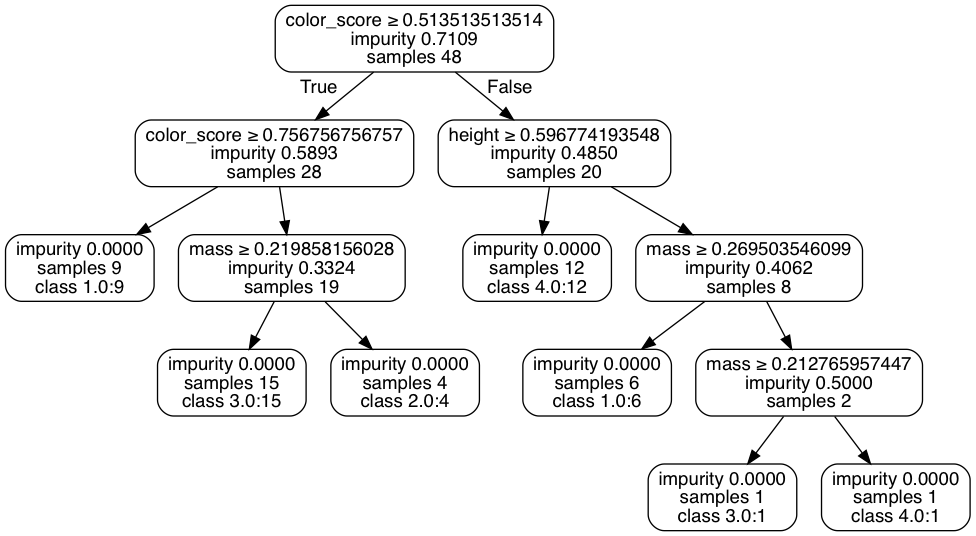
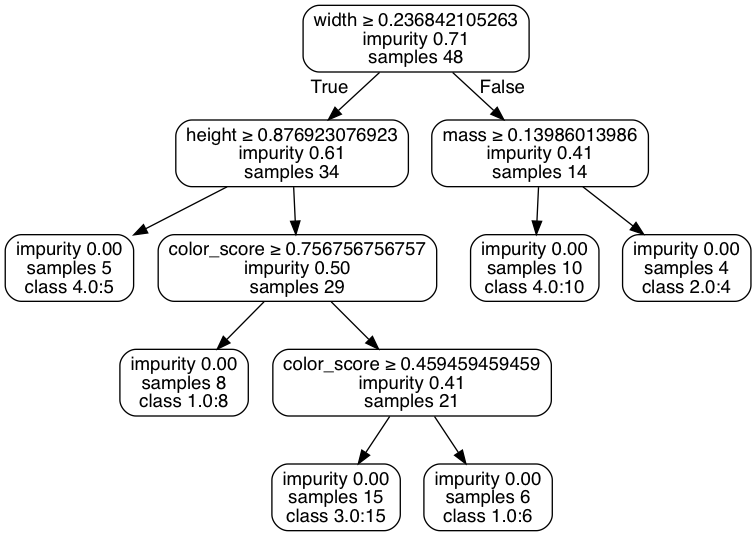
add comments - 6.23

diff --git a/DecisionTree.py b/DecisionTree.py
@@ -7,105 +7,84 @@ from __future__ import division
 import DecisionPlot as DP
 import tools as tl
 import pydotplus
+import cv2
 
 class DecisionTree:
-    def __init__(self, value=None, trueBranch=None, falseBranch=None, results=None, col=-1, summary=None, data=None):
+    def __init__(self, value=None, trueBranch=None, falseBranch=None, results=None, col=-1, summary=None):
         self.value = value               #Record the value in TreeNode
         self.trueBranch = trueBranch     #True  branch in TreeNode
         self.falseBranch = falseBranch   #False branch in TreeNode
-        self.results = results           #LeafNode results  - feature nums 
+        self.results = results           #feature num - Dictionary  
         self.col = col                   #Record the feature columns
-        self.summary = summary           #Every Node's summary info
-        self.data = data                 #LeafNode data
+        self.summary = summary           #Every Node's summary info for graph
 
-def buildDecisionTree(rows, evaluationFunc = None):
-    currentGain = evaluationFunc(rows)
-    rows_length = len(rows)
-    #print rows_length
+
+#建树函数
+def buildDecisionTree(dataSet, evaluationFunc = None):
+    currentGain = evaluationFunc(dataSet)
+    dataSet_length = len(dataSet)
+    #print dataSet_length
     best_gain = 0.0
     best_value = None
     best_set = None
-
     #choose the best gain for the former 4 feature
-    for col in range(len(rows[0]) - 1):
-        col_value_set = set([x[col] for x in rows])
+    for col in range(len(dataSet[0]) - 1):
+        col_value_set = set([x[col] for x in dataSet])
         #print col_value_set
         for value in col_value_set:
-            list1, list2 = tl.splitDataSet(rows, value, col)
-            p = float(len(list1)) / rows_length
+            list1, list2 = tl.splitDataSet(dataSet, value, col)
+            p = float(len(list1)) / dataSet_length
+            #feature gain
             gain = currentGain - p * evaluationFunc(list1) - (1-p) * evaluationFunc(list2)
             #print gain
-            if gain > best_gain:
+            if gain > best_gain and len(list1) > 1 and len(list2) > 1:
                 best_gain = gain
                 best_value = (col, value)
                 best_set = (list1, list2)
-    dcY = {'impurity' : '%.4f' %currentGain, 'samples': '%d' % rows_length}
+    dcY = {'impurity' : '%.2f' %currentGain, 'samples': '%d' % dataSet_length}
     #stop or not stop
     if best_gain > 0:
+        #set[0] : feature col
+        #set[1] : 
         trueBranch = buildDecisionTree(best_set[0], evaluationFunc)
         falseBranch = buildDecisionTree(best_set[1], evaluationFunc)
         return DecisionTree(col=best_value[0], value=best_value[1], \
          trueBranch=trueBranch, falseBranch=falseBranch, summary=dcY)
     else:
-        return DecisionTree(results=tl.calculateDiffCount(rows), \
-            summary=dcY, data=rows)
-
-def pruneTree(tree, minGain, evaluationFunc=None):
-    """Prunes the obtained tree according to the minimal gain (entropy or gini )"""
-    if (tree.trueBranch.results == None):
-        pruneTree(tree.trueBranch, minGain, evaluationFunc)
-    if (tree.falseBranch.results == None):
-        pruneTree(tree.falseBranch, minGain, evaluationFunc)
-    
-    #merge leafNode
-    if tree.trueBranch.results != None and tree.falseBranch.results != None:
-        tB, fB = [], []
-        for i, j in tree.trueBranch.results.items():
-            tB = [[i]] * j
-        for i, j in tree.falseBranch.results.items():
-            fB = [[i]] * j
-        p = float(len(tB)) / len(tB + fB)
-        delta = evaluationFunc(tB + fB) - p * evaluationFunc(tB) - (1 - p) * evaluationFunc(fB)
-        if delta < minGain:
-            tree.trueBranch, tree.falseBranch = None, None
-            tree.results = tl.calculateDiffCount(tB + fB)
-
-#def classify(testSet, tree):
-#    if tree.results != None: #LeafNode
-#        return tree.results
-#    else: 
-#        v = testSet[tree.col]
-#        branch = None
-#        if isinstance(v, float) or isinstance(v, int):
-#            if v >= tree.value: 
-#                branch = tree.trueBranch
-#            else:
-#                branch = tree.falseBranch
-#        else:
-#            if v == tree.value:
-#                branch = tree.trueBranch
-#            else:
-#                branch = tree.falseBranch
-#    return classify(testSet, branch)
+        #results {1:23} final classification
+        return DecisionTree(results=tl.calculateDiffCount(dataSet), \
+            summary=dcY)
 
 
+
+#根据fruit.txt抽取训练集、测试集、训练集标签、测试集标签
 trainSet, labels, testSet, testLabels = DP.createDataSet()
+#最大最小规约
 tl.maxminScalar(trainSet)
 tl.maxminScalar(testSet)
 
+#以Gini函数建树并剪枝
 Tree = buildDecisionTree(trainSet, evaluationFunc=tl.gini)
-pruneTree(Tree, 0.2, evaluationFunc=tl.gini)
+tl.pruneTree(Tree, 0.3, evaluationFunc=tl.gini)
 
+#绘制决策树图像，并保存为fruit.png
 res = DP.plot(Tree)
 dot_data = DP.dotgraph(Tree)
 graph = pydotplus.graph_from_dot_data(dot_data)
 graph.write_png("fruit.png")
 
-#test Step
+#读取fruit.png
+#显示fruit.png,设置窗口时间为5秒自动关闭
+fruitPng = cv2.imread("./fruit.png")
+#cv2.imshow('fruitPng.jpg', fruitPng)
+#cv2.waitKey(5000)
+
+#测试 Step
 accu = tl.accuracy(testSet, testLabels, Tree)
 rec  = tl.recall(testSet, testLabels, Tree, len(trainSet) + len(testSet))
 F    = tl.fValue(testSet, testLabels, Tree, len(trainSet) + len(testSet))
-# print (trainSet[52][:-1])
-
-# print (classify(trainSet[53][:-1], Tree))
+#print the acc, rec and F
+print 'DecisionTree Accuracy : ' + str(accu)
+print 'DecisionTree Recall   : ' + str(rec)
+print 'DecisionTree F-value  : ' + str(F)
 

diff --git a/tools.py b/tools.py
@@ -6,8 +6,8 @@
 from __future__ import division
 from math import log
 
-
-
+#计算数据集中的最后一列类别个数
+#return : {0:13, 1: 12, 2:3, 3:20}
 def calculateDiffCount(dataSet):
     results = {}
     for data in dataSet:
@@ -17,6 +17,8 @@ def calculateDiffCount(dataSet):
             results[data[-1]] += 1
     return results
 
+#分割数据集
+#return : set1=[value > given value] set2=[others]
 def splitDataSet(rows, value, column):
     set1 = []
     set2 = []
@@ -36,6 +38,7 @@ def splitDataSet(rows, value, column):
                 set2.append(row)
     return set1, set2
 
+#entropy function
 def entropy(rows):
     results = calculateDiffCount(rows)
     entroP = 0.0
@@ -44,14 +47,17 @@ def entropy(rows):
         entroP -= p * log(p, 2)
     return entroP
 
+#gini function
 def gini(rows):
     #cal the gini
     results = calculateDiffCount(rows)
     imp = 0.0
     for i in results:
+        #需转Float类型
         imp += float(results[i]) / len(rows) * float(results[i]) / len(rows)
     return 1 - imp
 
+#数据集最大最小规约
 def maxminScalar(dataSet):
     for i in range(len(dataSet[0]) - 1):
         temp = [a[i] for a in dataSet]
@@ -62,17 +68,44 @@ def maxminScalar(dataSet):
             denominator = maxNumber - minNumber
             dataSet[j][i] = (dataSet[j][i] - minNumber) / denominator
 
+#决策树剪枝函数
+def pruneTree(tree, minGain, evaluationFunc=None):
+    #Not leafNode - 递归
+    if (tree.trueBranch.results == None):
+        pruneTree(tree.trueBranch, minGain, evaluationFunc)
+    if (tree.falseBranch.results == None):
+        pruneTree(tree.falseBranch, minGain, evaluationFunc)
+    #merge the leafNode
+    if tree.trueBranch.results != None and tree.falseBranch.results != None:
+        tB = []
+        fB = []
+        for i, j in tree.trueBranch.results.items():
+            tB = [[i]] * j
+        for i, j in tree.falseBranch.results.items():
+            fB = [[i]] * j
+        #true branch P
+        p = float(len(tB)) / len(tB + fB)
+        #Gini gain or entropy gain
+        delta = evaluationFunc(tB + fB) - p * evaluationFunc(tB) - (1 - p) * evaluationFunc(fB)
+        if delta < minGain:
+            #merge
+            tree.trueBranch, tree.falseBranch = None, None
+            tree.results = calculateDiffCount(tB + fB)
+
+#测试集分类函数
 def classify(testSet, tree):
     if tree.results != None: #LeafNode
         return tree.results
     else: 
         v = testSet[tree.col]
         branch = None
+        #for int and float data
         if isinstance(v, float) or isinstance(v, int):
             if v >= tree.value: 
                 branch = tree.trueBranch
             else:
                 branch = tree.falseBranch
+        #for the string type
         else:
             if v == tree.value:
                 branch = tree.trueBranch
@@ -80,17 +113,17 @@ def classify(testSet, tree):
                 branch = tree.falseBranch
     return classify(testSet, branch)
 
+#计算准确率函数
 def accuracy(testSet, testLabels, tree):
     cnt = 0
     for i in range(len(testSet)):
         res = classify(testSet[i], tree)
-    # print testSet[i]
-        print res.keys()[0]
         if (res.keys()[0] == testLabels[i]):
             cnt += 1
     accu = cnt / len(testSet)
     return accu
 
+#计算召回率函数
 def recall(testSet, testLabels, tree, dataSetlength=59):
     cnt = 0
     for i in range(len(testSet)):
@@ -99,12 +132,12 @@ def recall(testSet, testLabels, tree, dataSetlength=59):
             cnt += 1
     rec = cnt / dataSetlength
     return rec
-
+#计算F值函数
 def fValue(testSet, testLabels, tree, dataSetLength=59):
     accu = accuracy(testSet, testLabels, tree)
     rec  = recall(testSet, testLabels, tree, dataSetLength)
     if (accu + rec) == 0:
-        print 'bad DC!'
+        print 'Bad DecisionTree Construction !'
         return 0 
     F    = (accu * rec * 2) / (accu + rec)
     return F

diff --git a/DecisionPlot.py b/DecisionPlot.py
@@ -40,8 +40,8 @@ def createDataSet(splitSize=0.2):
 
     testlabel = [a[-1] for a in testSet]
     testSet   = [a[:-1] for a in testSet]
-    print testSet
-    print testlabel
+    #print testSet
+    #print testlabel
     return trainSet, labelsDict, testSet, testlabel
 
 
@@ -73,7 +73,8 @@ def dotgraph(tree):
     dcNodes = defaultdict(list)
 
     def toString(split, tree, bBranch, szParent = "null", indent=''):
-        if tree.results != None:  # leaf node
+        if tree.results != None:  
+        # leaf node
             lsY = []
             for szX, n in tree.results.items():
                     lsY.append('%s:%d' % (szX, n))
